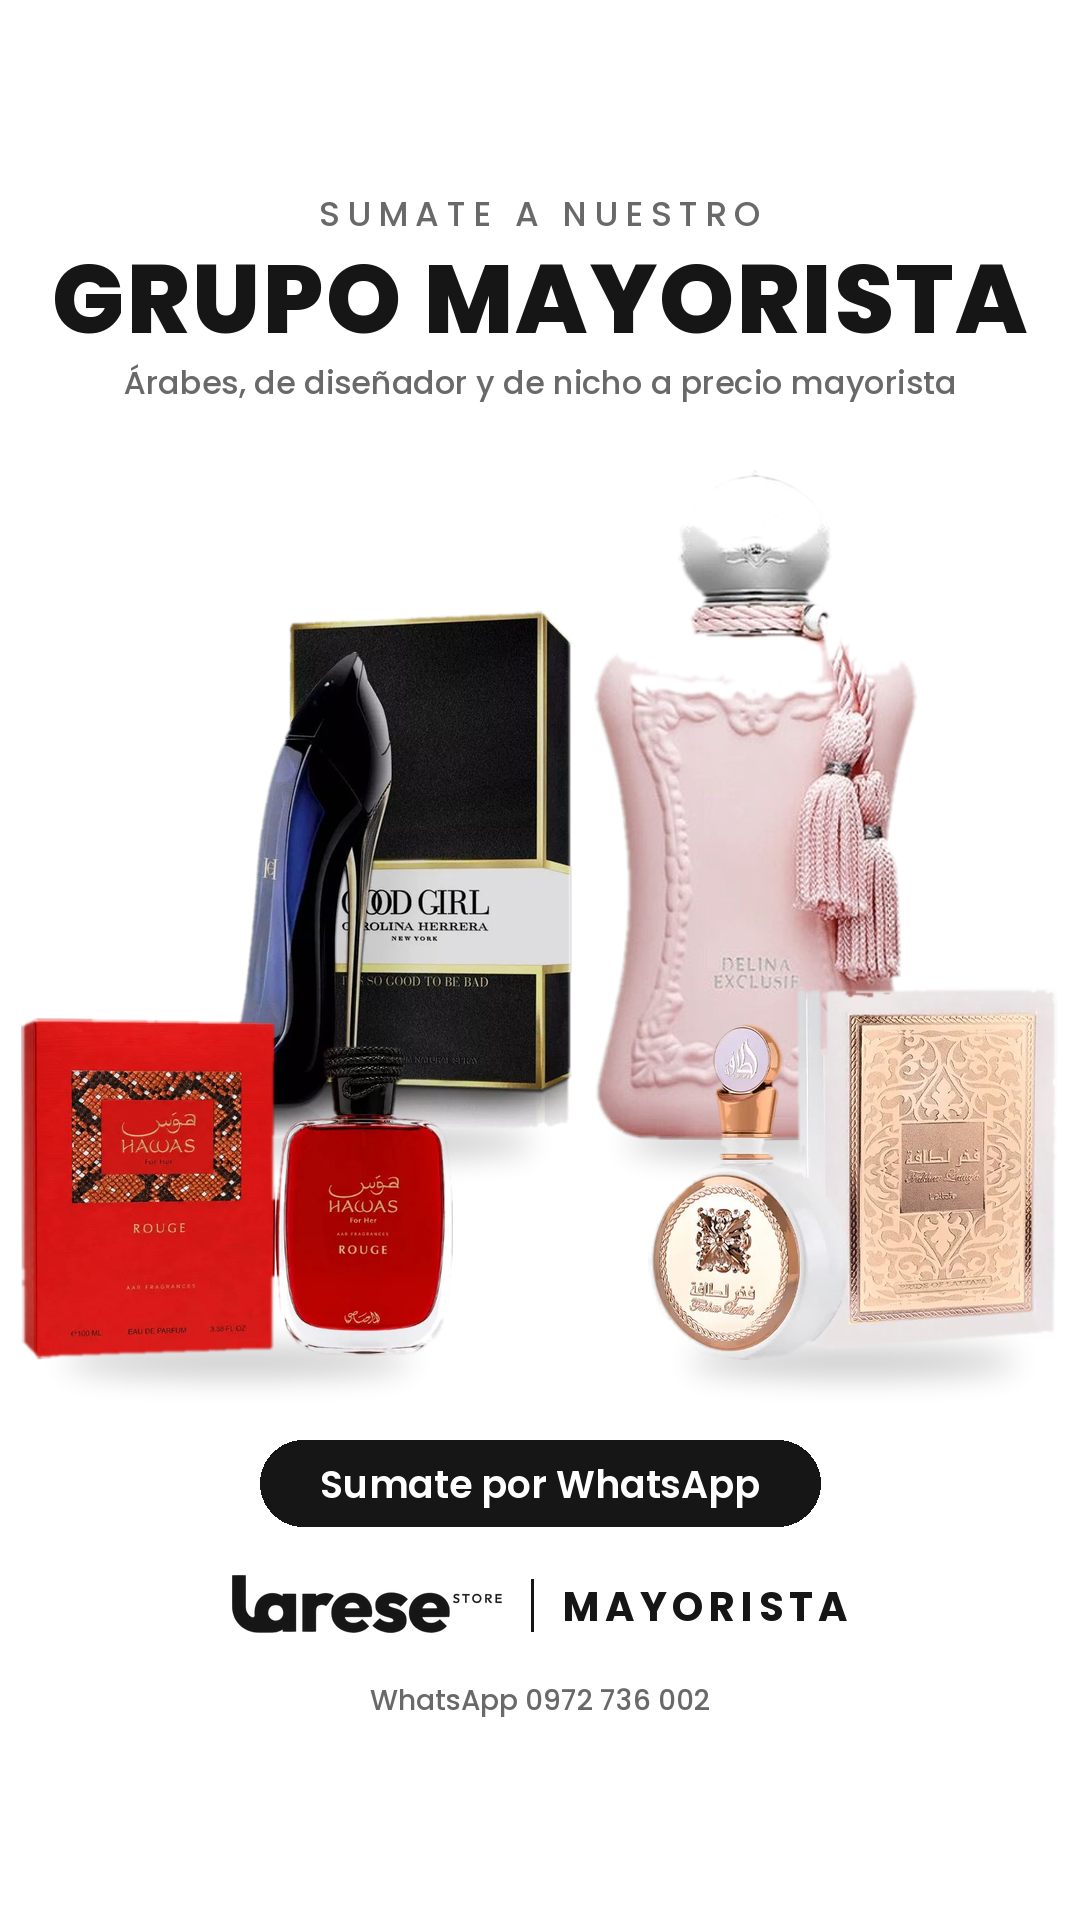
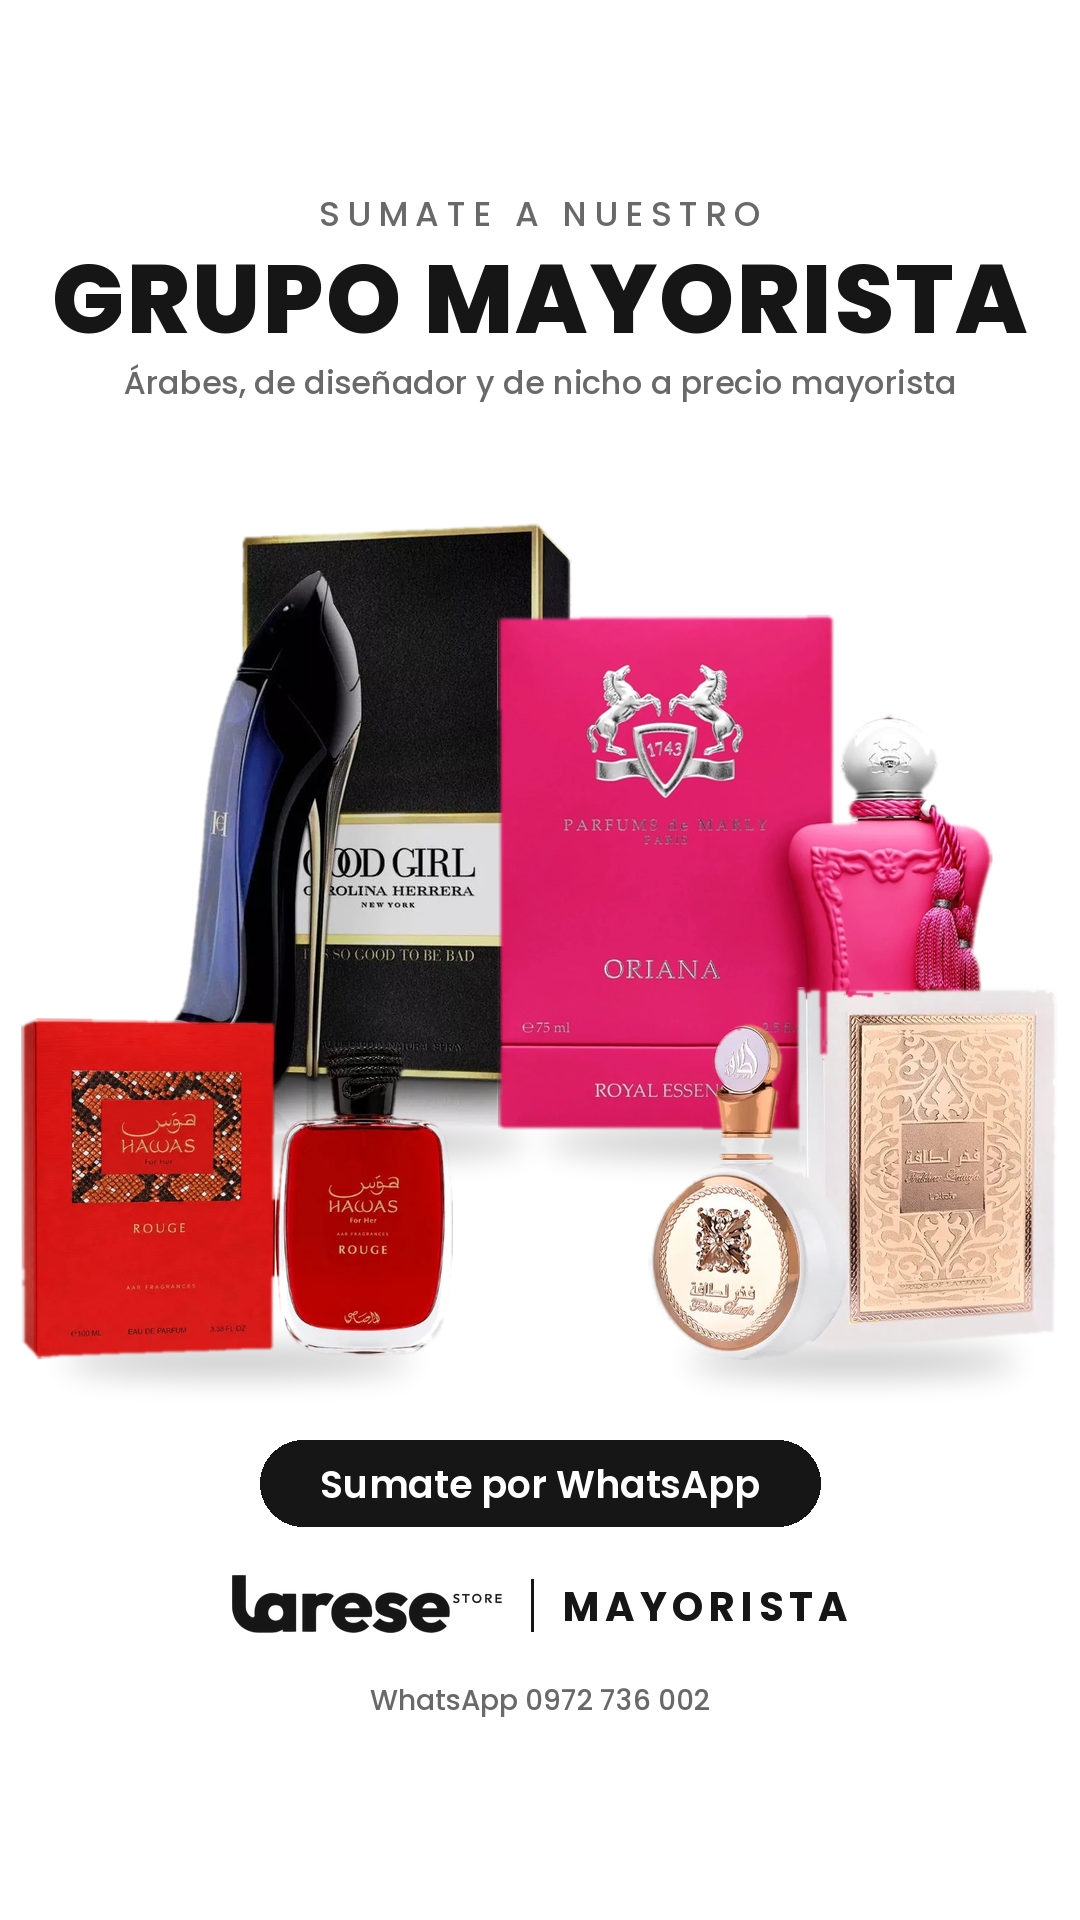
Wholesale ad: swap Delina Exclusif (bad source photo) for Parfums de Marly Oriana
Claude-Session: https://claude.ai/code/session_01DnzkNLBCvMq4y8uu7fepTP

Changed region(s): [[0.1528, 0.25, 0.9167, 0.625]]

diff --git a/grupo-mayorista/crear_mayorista.py b/grupo-mayorista/crear_mayorista.py
@@ -46,7 +46,7 @@ FORMATOS = {
     "meta-historia": dict(size=(1080, 1920), k=1.0, ante_y=300, titulo_y=342, sub_y=470,
                           prod=(545, 1105), prod_sin_nombres=(560, 1205), nombres_y=1130, boton_y=1245, tienda_y=1370, pie_y=1470),
     "meta-post": dict(size=(1080, 1350), k=0.82, ante_y=46, titulo_y=82, sub_y=186,
-                      prod=(250, 860), prod_sin_nombres=(255, 950), nombres_y=880, boton_y=990, tienda_y=1105, pie_y=1210),
+                      prod=(250, 860), prod_sin_nombres=(280, 955), nombres_y=880, boton_y=990, tienda_y=1105, pie_y=1210),
 }
 
 
@@ -128,8 +128,8 @@ def armar(SPEC, formato):
     if len(prods) == 4:
         # grupo: los 2 del medio atrás y más grandes, los 2 de las puntas adelante
         # (centro x relativo, base relativa en la zona, alto relativo, ancho máx relativo)
-        lugares = [(0.22, 1.00, 0.46, 0.40), (0.35, 0.76, 0.74, 0.36),
-                   (0.70, 0.76, 0.74, 0.30), (0.79, 1.00, 0.46, 0.38)]
+        lugares = [(0.22, 1.00, 0.46, 0.40), (0.32, 0.76, 0.78, 0.42),
+                   (0.69, 0.76, 0.74, 0.46), (0.79, 1.00, 0.46, 0.38)]
         for i in (1, 2, 0, 3):  # primero los de atrás
             rx, rb, rh, rw = lugares[i]
             pegar(img, cargados[i], w * rx, y0 + alto_zona * rb, w * rw, alto_zona * rh)
